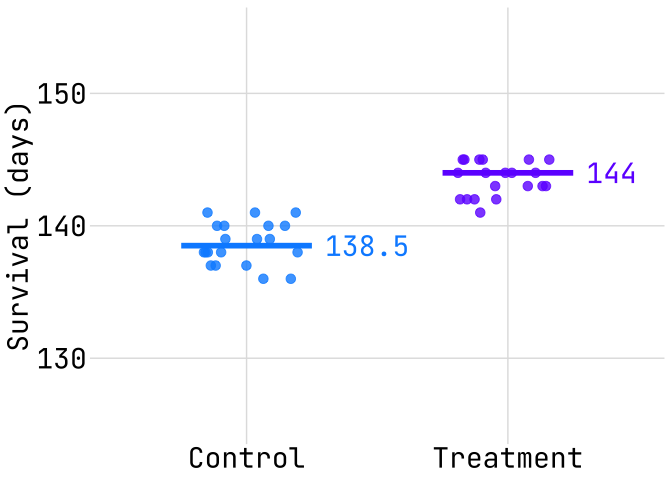
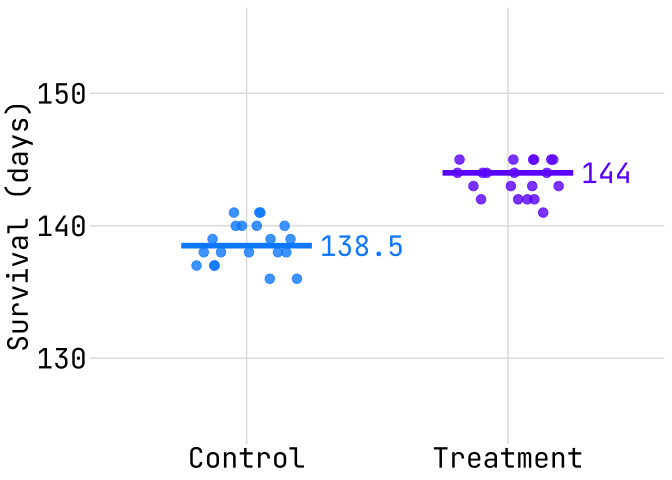
correct plots and add median labels

Changed region(s): [[0.2812, 0.4062, 0.625, 0.5938], [0.6562, 0.3125, 0.8438, 0.4688], [0.875, 0.3438, 0.9688, 0.375]]

diff --git a/why-randomize_plots.md b/why-randomize_plots.md
@@ -289,8 +289,8 @@ condition_label <- NULL
 ## Survival vs condition
 
 ``` r
-make_panel_survival_condition <- function(dpi) {
-  ggplot(dat, aes(x = condition, y = survival, color = condition)) +
+make_panel_survival_condition <- function(df = dat, dpi) {
+  ggplot(df, aes(x = condition, y = survival, color = condition)) +
     geom_point(
       size = 3,
       alpha = 0.8,
@@ -308,7 +308,7 @@ make_panel_survival_condition <- function(dpi) {
       geom = "text",
       aes(label = after_stat(round(y, 1))),
       hjust = 0,
-      position = position_nudge(x = 0.3),
+      position = position_nudge(x = 0.28),
       family = "JetBrains Mono",
       size = c4r_geom_textsize(plot_dpi = dpi)
     ) +
@@ -319,13 +319,13 @@ make_panel_survival_condition <- function(dpi) {
     theme(legend.position = "none")
 }
 
-make_panel_survival_condition(view_dpi)
+make_panel_survival_condition(dpi = view_dpi)
 ```
 
 ![](why-randomize_plots_files/figure-commonmark/unnamed-chunk-8-1.png)
 
 ``` r
-p <- make_panel_survival_condition(plot_dpi)
+p <- make_panel_survival_condition(dpi = plot_dpi)
 
 ## export plot as png ----
 plot_width <- 5 # inches
@@ -357,6 +357,15 @@ make_panel_rotarod_condition <- function(dpi, df = dat) {
       width = 0.5,
       linewidth = 0.8,
       alpha = 0.8
+    ) +
+    stat_summary(
+      fun = median,
+      geom = "text",
+      aes(label = after_stat(round(y, 1))),
+      hjust = 0,
+      position = position_nudge(x = 0.28),
+      family = "JetBrains Mono",
+      size = c4r_geom_textsize(plot_dpi = dpi)
     ) +
     theme_c4r(plot_dpi = dpi) +
     labs(x = condition_label, y = rotarod_label) +
@@ -399,7 +408,7 @@ make_panel_survival_rotarod <- function(dpi) {
       size = 3
     ) +
     geom_smooth(method = "lm", color = "black", se = FALSE) +
-    labs(x = rotarod_label, y = survival_label) + 
+    labs(x = rotarod_label, y = survival_label) +
     theme_c4r(plot_dpi = dpi) +
     coord_cartesian(xlim = rotarod_plot_range, ylim = survival_plot_range)
 }
@@ -438,20 +447,20 @@ rand_condition <- sample(c("Control", "Treatment"), NROW(dat), replace = TRUE)
 dat_rand <- dat
 dat_rand$condition <- rand_condition
 
-make_panel_rotarod_condition(view_dpi, df = dat_rand)
+make_panel_survival_condition(view_dpi, df = dat_rand)
 ```
 
 ![](why-randomize_plots_files/figure-commonmark/unnamed-chunk-11-1.png)
 
 ``` r
-p <- make_panel_rotarod_condition(plot_dpi, df = dat_rand)
+p <- make_panel_survival_condition(plot_dpi, df = dat_rand)
 
 ## export plot as png ----
 plot_width <- 5 # inches
 plot_height <- 4 # inches
 
 ggsave(
-  "plot_rotarod_condition_rand.png",
+  "plot_survival_condition_rand.png",
   p,
   width = plot_width,
   height = plot_height,
